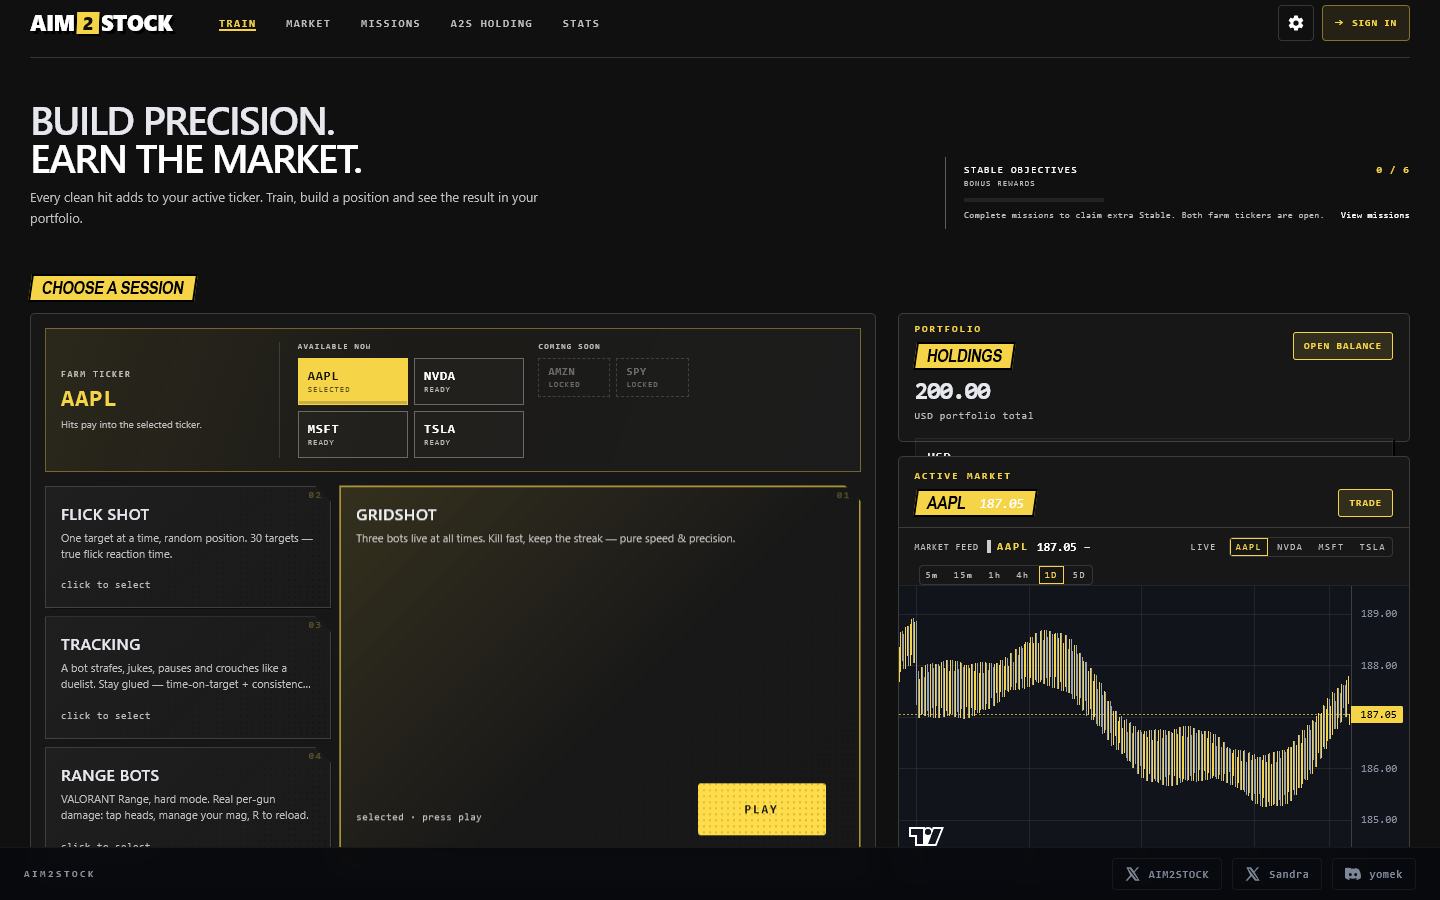
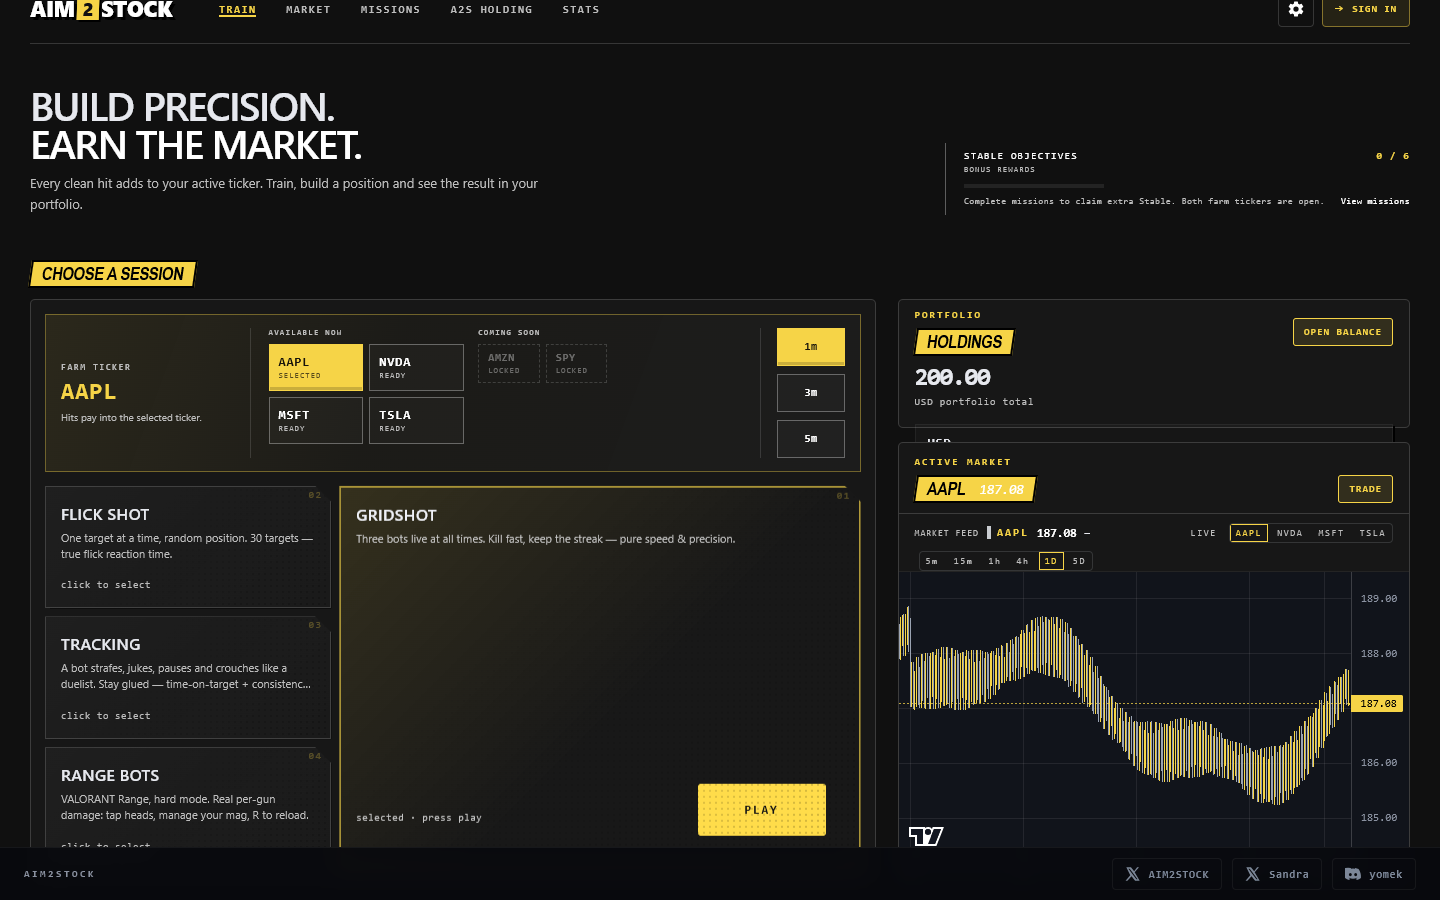
feat: add selectable session durations

diff --git a/client/js/game.js b/client/js/game.js
@@ -39,7 +39,7 @@ const armorHp = () => PLAYER_HP;
 // Default loadout: sidearm in slot 2 (free USP), slot 1 empty until the
 // player buys something. Legacy settings (slot1: 'vandal' / slot2:
 // 'classic') get remapped through resolveGunId on first read.
-const DEFAULTS = { sens: 0.4, scope: 1.0, volume: 0.5, scale: '1', slot1: null, slot2: 'usp',
+const DEFAULTS = { sens: 0.4, scope: 1.0, volume: 0.5, scale: '1', slot1: null, slot2: 'usp', sessionDuration: 60,
   // Default to infinite mag so the player never has to think about
   // reloading mid-session. They can switch to manual in Display.
   reload: 'off', trackDiff: 'medium', dist: 'standard', orbMove: 'drift', orbSize: 'm', theme: 'protocol',
@@ -58,6 +58,16 @@ const MODE_DEFS = {
   tracking: { name: 'TRACKING', time: 45, desc: 'A bot strafes, jukes, pauses and crouches like a duelist. Stay glued — time-on-target + consistency. Difficulty in Settings.' },
   bots:     { name: 'RANGE BOTS', time: 60, desc: 'VALORANT Range, hard mode. Real per-gun damage: tap heads, manage your mag, R to reload.' },
 };
+const SESSION_DURATION_OPTIONS = [
+  { seconds: 60, label: '1m' },
+  { seconds: 180, label: '3m' },
+  { seconds: 300, label: '5m' },
+];
+const normalizeSessionDuration = (value) => {
+  const seconds = Number(value);
+  return SESSION_DURATION_OPTIONS.some((item) => item.seconds === seconds) ? seconds : 60;
+};
+const flickTargetsForDuration = (seconds) => Math.round(30 * normalizeSessionDuration(seconds) / 60);
 const MENU = 0, COUNT = 1, PLAYING = 2, PAUSED = 3, RESULTS = 4;
 
 export function boot() {
@@ -91,6 +101,8 @@ export function boot() {
   // ---------- player / weapon state ----------
   let state = MENU, mode = 'gridshot';
   let selectedMode = 'gridshot';
+  let sessionDuration = normalizeSessionDuration(settings.sessionDuration);
+  settings.sessionDuration = sessionDuration;
   let runStartTicker = 'AAPL';
   let runStartBalances = {};
   let runStartStable = 0;
@@ -411,7 +423,7 @@ export function boot() {
     T.remove(t);
     if (mode === 'gridshot') { r.score += 100; spawnGridOrb(); }
     else if (mode === 'flick') { r.ttks.push(ttkMs); r.score += Math.round(clamp(1200 - ttkMs, 100, 1200));
-      if (r.kills >= MODE_DEFS.flick.targets) { endGame(); return; } spawnFlickOrb(); }
+      if (r.kills >= flickTargetsForDuration(sessionDuration)) { endGame(); return; } spawnFlickOrb(); }
     else if (mode === 'bots') { r.score += 100 + (wasHead ? 50 : 0); pendingSpawn = 0.15; }
     else if (mode === 'tracking') {
       // Tracking is continuous, but a dead bot must be replaced immediately
@@ -486,7 +498,7 @@ export function boot() {
     FX.setSniperScope(false); $('scope').classList.remove('on'); document.body.classList.toggle('scoped', scoped);
     spoolT = 0; burstLeft = 0; burstCool = 0;
     vy = 0; airH = 0; grounded = true; camH = CAM_STAND;
-    timeLeft = MODE_DEFS[m].time ?? 120; elapsed = 0;
+    timeLeft = sessionDuration; elapsed = 0;
     $('st-mode').textContent = MODE_DEFS[m].name;
     $('st-gunname').textContent = `${gun.name} · ${gun.cls.toUpperCase()} · ${gun.mag === Infinity ? '∞' : gun.mag} MAG`;
     $('menu').classList.remove('open'); $('results').classList.remove('open'); $('pause').classList.remove('open'); toggleBuy(false);
@@ -760,6 +772,14 @@ export function boot() {
     selectedMode = nextMode;
     renderMenuStats();
   }
+  function selectSessionDuration(nextDuration) {
+    const seconds = normalizeSessionDuration(nextDuration);
+    if (sessionDuration === seconds) return;
+    sessionDuration = seconds;
+    settings.sessionDuration = seconds;
+    saveSettings();
+    renderMenuStats();
+  }
   function renderMenuStats() {
     const farmPicker = document.querySelector('[data-farm-picker]');
     if (farmPicker) {
@@ -786,6 +806,15 @@ export function boot() {
           renderMenuStats();
         }));
       }
+      const durationPicker = document.querySelector('[data-session-duration-picker]');
+      if (durationPicker) {
+        durationPicker.querySelectorAll('[data-session-duration]').forEach((button) => {
+          const activeDuration = Number(button.dataset.sessionDuration) === sessionDuration;
+          button.classList.toggle('active', activeDuration);
+          button.setAttribute('aria-pressed', String(activeDuration));
+          button.onclick = () => selectSessionDuration(button.dataset.sessionDuration);
+        });
+      }
     }
     const list = $('modelist'); list.innerHTML = '';
     let mi = 0;
@@ -794,10 +823,13 @@ export function boot() {
       const d = MODE_DEFS[id], hs = modeHistory(id);
       const best = hs.length ? Math.max(...hs.map(h => h.score)) : null;
       const selected = id === selectedMode;
+      const desc = id === 'flick'
+        ? `One target at a time, random position. ${flickTargetsForDuration(sessionDuration)} targets — true flick reaction time.`
+        : d.desc;
       const el = document.createElement('div'); el.className = 'mode mode-' + id + (selected ? ' mode-selected' : '');
       el.tabIndex = 0; el.setAttribute('role', 'button'); el.setAttribute('aria-pressed', String(selected));
       const statLabel = best !== null ? `best ${best}` : selected ? 'selected · press play' : 'click to select';
-      el.innerHTML = `<div class="mode-idx">0${mi}</div><div class="mode-body"><h3>${d.name}</h3><p>${d.desc}</p></div><div class="mode-footer"><div class="stats">${statLabel}</div>${selected ? `<button type="button" class="mode-play" aria-label="Start ${d.name}">Play</button>` : ''}</div>`;
+      el.innerHTML = `<div class="mode-idx">0${mi}</div><div class="mode-body"><h3>${d.name}</h3><p>${desc}</p></div><div class="mode-footer"><div class="stats">${statLabel}</div>${selected ? `<button type="button" class="mode-play" aria-label="Start ${d.name}">Play</button>` : ''}</div>`;
       el.addEventListener('click', () => selectMode(id));
       const play = el.querySelector('.mode-play');
       if (play) play.addEventListener('click', e => { e.stopPropagation(); startGame(selectedMode); });
@@ -1223,8 +1255,8 @@ export function boot() {
         if (secClock >= 1) { trackSecs.push(Math.min(1, secOn / secClock)); secClock = 0; secOn = 0; }
       }
       if (pendingSpawn > 0) { pendingSpawn -= dt; if (pendingSpawn <= 0 && mode === 'bots') spawnRangeBot(); }
-      if (MODE_DEFS[mode].time !== null) { timeLeft -= dt; if (timeLeft <= 0) endGame(); }
-      else { timeLeft -= dt; if (timeLeft <= -120) endGame(); }
+      timeLeft -= dt;
+      if (timeLeft <= 0) endGame();
     }
     recoil *= Math.pow(0.002, dt);
     fovKick *= Math.pow(0.002, dt);

diff --git a/client/index.html b/client/index.html
@@ -14,7 +14,7 @@
 <link rel="preconnect" href="https://cdn.jsdelivr.net" crossorigin>
 <link href="https://fonts.googleapis.com/css2?family=JetBrains+Mono:wght@400;600&family=Inter:wght@400;600;700&display=swap" rel="stylesheet">
 <link rel="stylesheet" href="css/upstream.css?v=20261023-8">
-<link rel="stylesheet" href="css/style.css?v=20261104-4">
+<link rel="stylesheet" href="css/style.css?v=20261106-1">
 <script type="importmap">
 {"imports":{
   "three":"https://cdn.jsdelivr.net/npm/three@0.160.0/build/three.module.js",
@@ -218,6 +218,11 @@
             <div class="farm-picker" data-farm-picker aria-label="Farm ticker">
               <div class="farm-picker-summary"><span class="farm-picker-kicker">Farm ticker</span><strong data-farm-current>AAPL</strong><span class="farm-picker-hint">Hits pay into the selected ticker.</span></div>
               <div class="farm-picker-options" role="group" aria-label="Farm ticker options"></div>
+              <div class="session-duration-picker" data-session-duration-picker role="group" aria-label="Session duration">
+                <button type="button" class="session-duration-btn active" data-session-duration="60" aria-label="1 minute session" aria-pressed="true">1m</button>
+                <button type="button" class="session-duration-btn" data-session-duration="180" aria-label="3 minute session" aria-pressed="false">3m</button>
+                <button type="button" class="session-duration-btn" data-session-duration="300" aria-label="5 minute session" aria-pressed="false">5m</button>
+              </div>
             </div>
             <div id="modelist" class="mode-grid"></div>
           </section>
@@ -354,7 +359,7 @@
 <div id="privy-wallet-root" hidden></div>
 <script src="js/privy-wallet.bundle.js?v=20261022-4"></script>
 <script type="module" src="js/holding.js?v=20261022-4"></script>
-<script type="module" src="js/main.js?v=20261104-1"></script>
+<script type="module" src="js/main.js?v=20261106-1"></script>
 <script type="module">
   // Market and Missions are views inside the one shared dashboard shell.
   const panel = document.getElementById('vibes-terminal');

diff --git a/client/css/style.css b/client/css/style.css
@@ -2262,6 +2262,59 @@ body.market-collapsed .vt-market-right { display: none; }
     min-height: 118px;
   }
 }
+
+/* Session length controls mirror the farm-picker reference panel. */
+#menu .farm-picker {
+  grid-template-columns: minmax(176px, .72fr) minmax(0, 1.8fr) minmax(76px, .32fr);
+}
+#menu .session-duration-picker {
+  display: flex;
+  min-width: 0;
+  flex-direction: column;
+  justify-content: center;
+  gap: 8px;
+  padding-left: 16px;
+  border-left: 1px solid rgba(255,255,255,.13);
+}
+#menu .session-duration-btn {
+  display: block;
+  width: 100%;
+  min-height: 38px;
+  border: 1px solid var(--dash-line-strong);
+  background: rgba(255,255,255,.025);
+  color: var(--dash-soft);
+  padding: 8px 7px;
+  cursor: pointer;
+  font: 700 11px/1 var(--font-mono);
+  letter-spacing: .04em;
+  transition: border-color 150ms ease, background 150ms ease, color 150ms ease, transform 150ms ease;
+}
+#menu .session-duration-btn:hover,
+#menu .session-duration-btn:focus-visible {
+  border-color: #f6d447;
+  background: rgba(246,212,71,.08);
+  outline: none;
+  transform: translateY(-1px);
+}
+#menu .session-duration-btn.active {
+  border-color: #f6d447;
+  background: #f6d447;
+  color: #17140a;
+  box-shadow: inset 0 -3px 0 rgba(23,20,10,.2);
+}
+@media (max-width: 680px) {
+  #menu .farm-picker {
+    grid-template-columns: 1fr;
+  }
+  #menu .session-duration-picker {
+    flex-direction: row;
+    align-items: stretch;
+    padding-top: 12px;
+    padding-left: 0;
+    border-top: 1px solid rgba(255,255,255,.13);
+    border-left: 0;
+  }
+}
 #pause .pause-actions {
   display: grid;
   gap: 10px;

diff --git a/client/js/main.js b/client/js/main.js
@@ -1,4 +1,4 @@
-import { boot } from './game.js?v=20261104-1';
+import { boot } from './game.js?v=20261106-1';
 boot();
 
 // ---- app shell: optional install prompt and desktop-only gate ----
